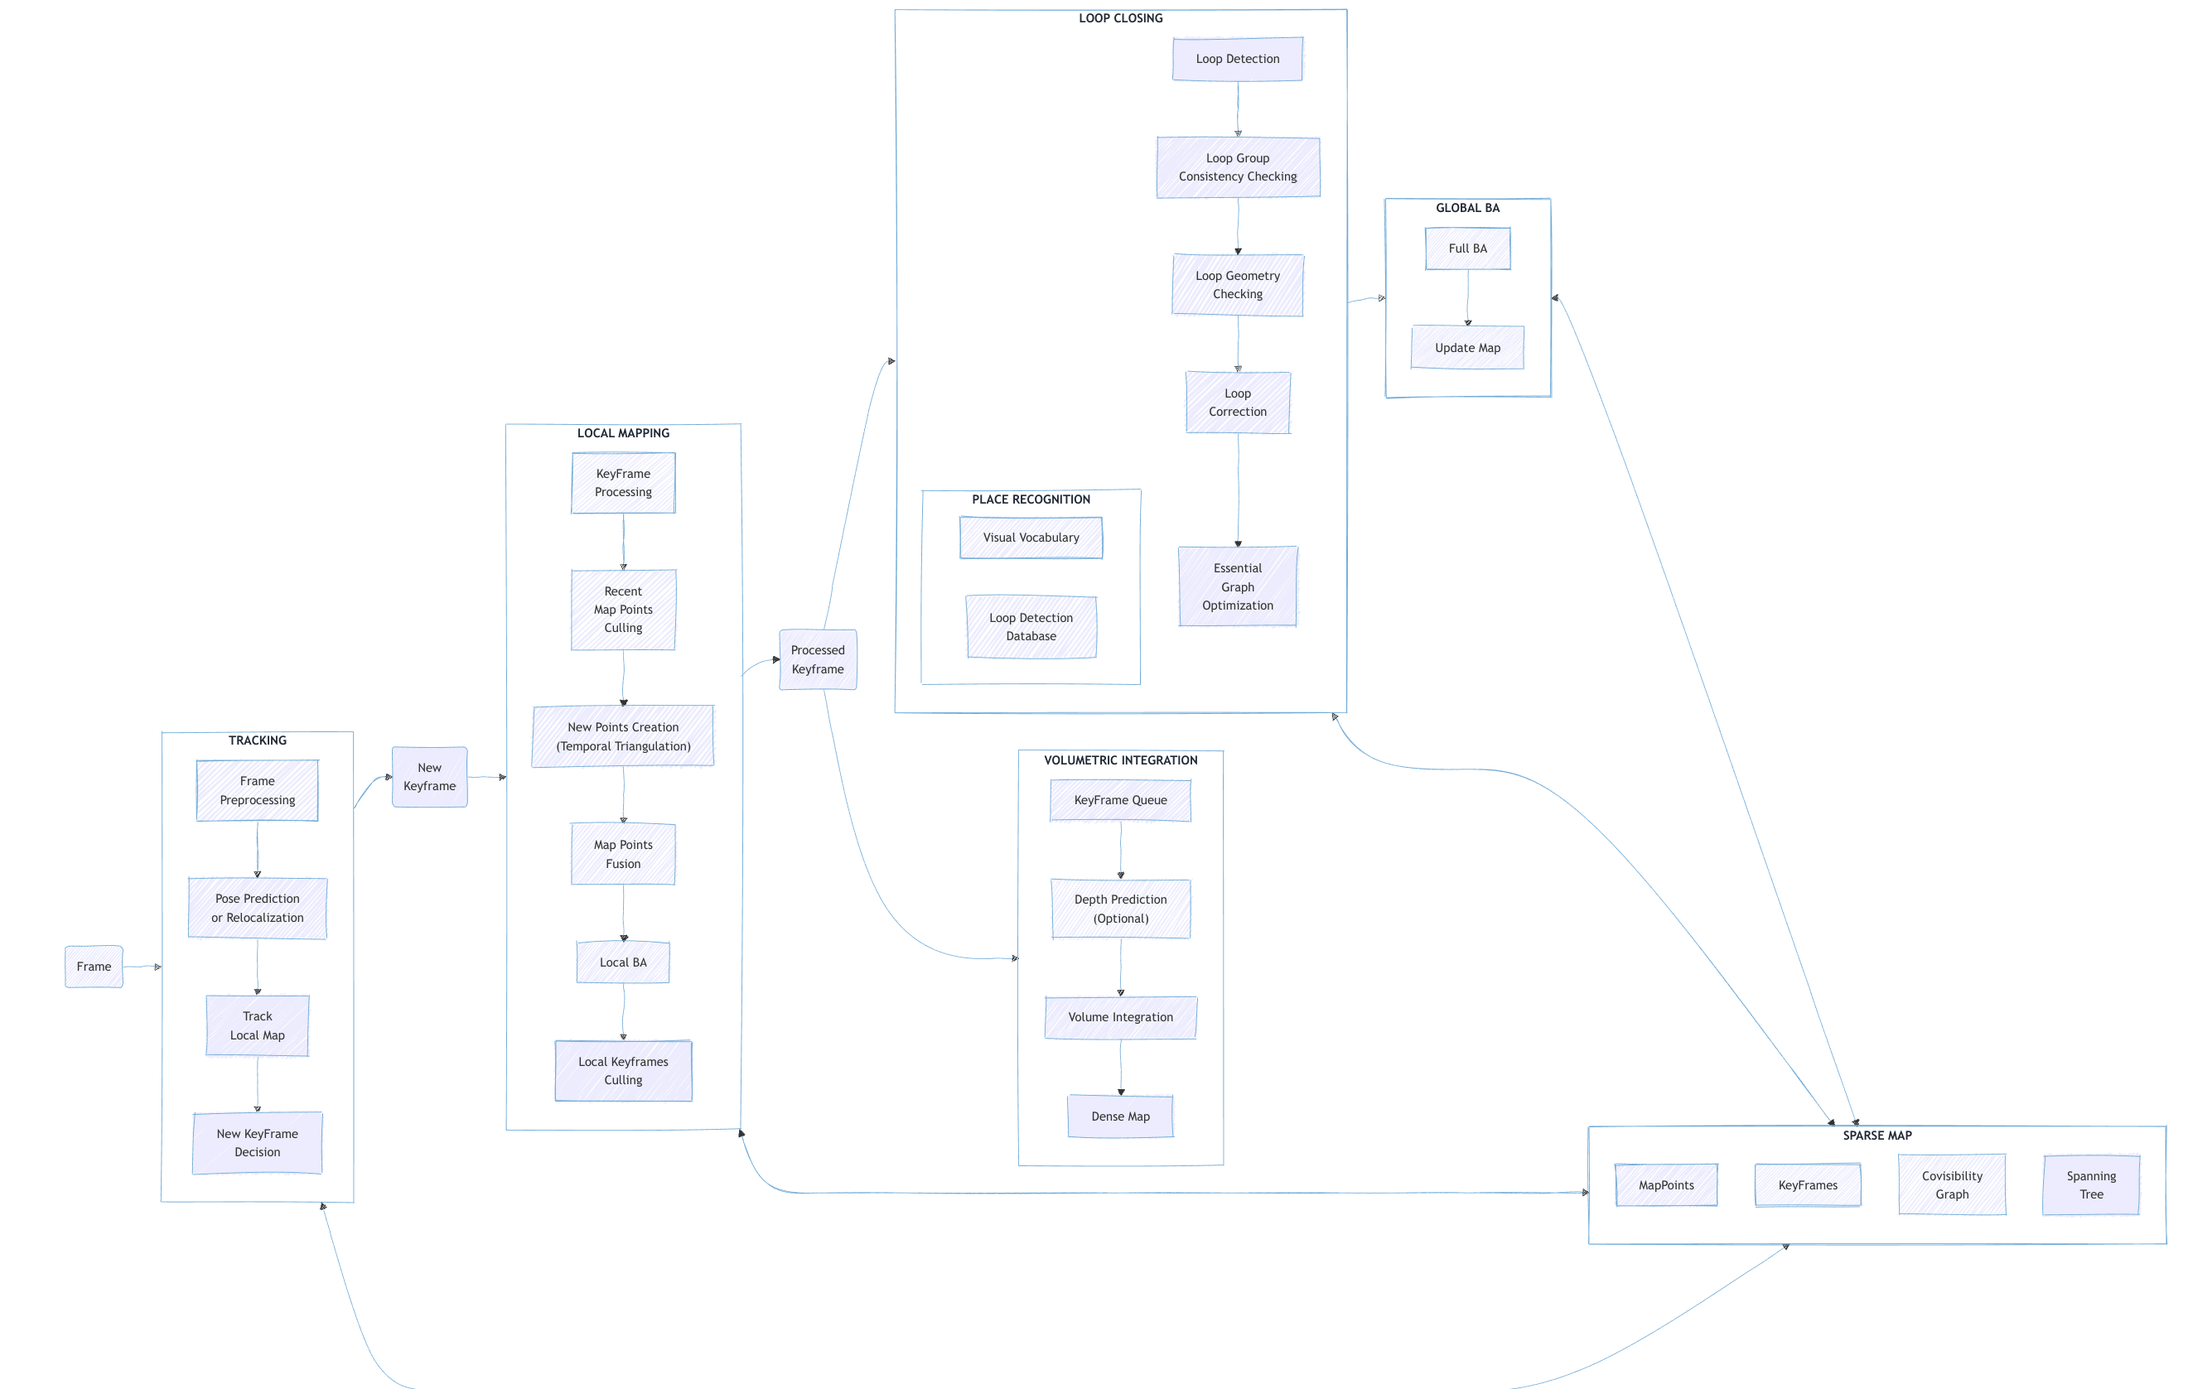
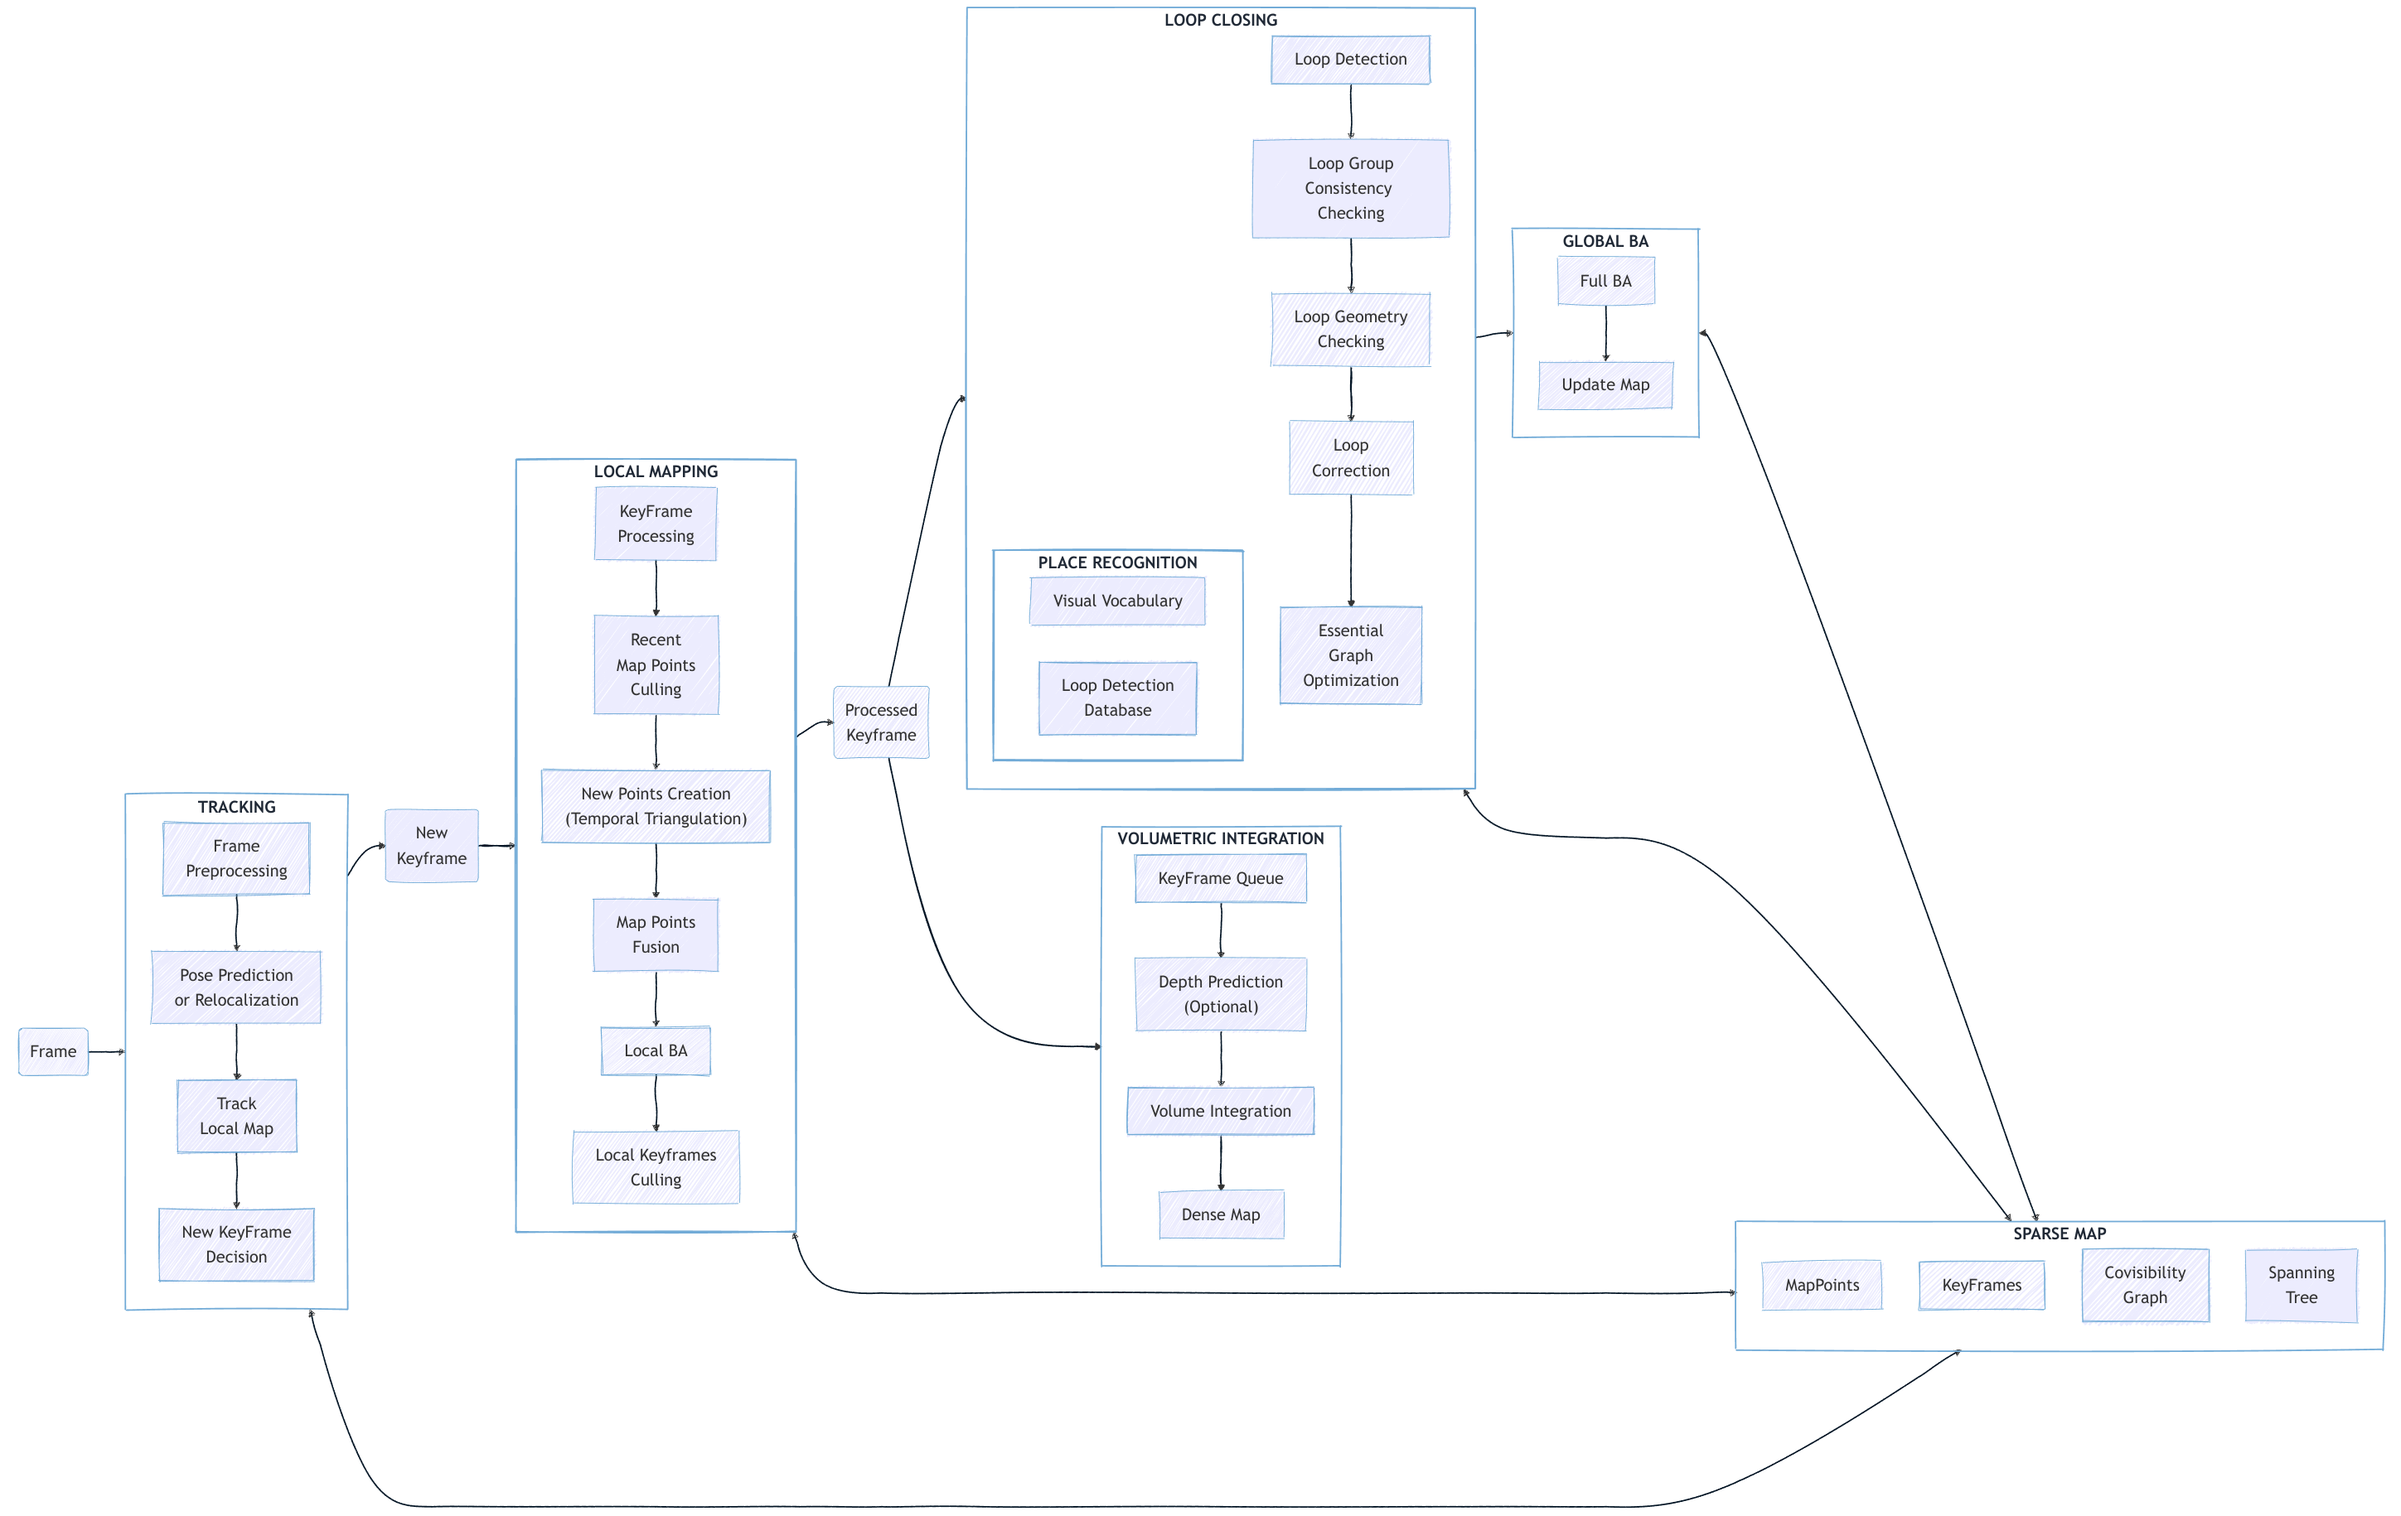
Small bug fixes/improvements

diff --git a/main_map_dense_reconstruction.py b/main_map_dense_reconstruction.py
@@ -91,7 +91,7 @@ if __name__ == "__main__":
                                                                                     # Since the depth inference time may be above 1 second, the volumetric integrator may be very slow.
                                                                                     # NOTE: The depth estimator estimates a metric depth (with an absolute scale). You can't combine it with a MONOCULAR SLAM output
                                                                                     # since the SLAM sparse map scale will not be consistent.
-    Parameters.kVolumetricIntegrationDepthEstimatorType = "DEPTH_CRESTEREO_PYTORCH"  # "DEPTH_PRO","DEPTH_ANYTHING_V2, "DEPTH_SGBM", "DEPTH_RAFT_STEREO", "DEPTH_CRESTEREO_PYTORCH"  (see depth_estimator_factory.py)    
+    Parameters.kVolumetricIntegrationDepthEstimatorType = "DEPTH_RAFT_STEREO"  # "DEPTH_PRO","DEPTH_ANYTHING_V2, "DEPTH_SGBM", "DEPTH_RAFT_STEREO", "DEPTH_CRESTEREO_PYTORCH"  (see depth_estimator_factory.py)    
     Parameters.kVolumetricIntegrationMinNumLBATimes = 0 # NOTE: This avoids the volumetric integrator integrates just keyframes with lba_count >= kVolumetricIntegrationMinNumLBATimes    
     if Parameters.kVolumetricIntegrationUseDepthEstimator:
         print(f'Using depth estimator: {Parameters.kVolumetricIntegrationDepthEstimatorType}')
@@ -124,7 +124,7 @@ if __name__ == "__main__":
         for kf in keyframes:
             
             print('-----------------------------------')
-            print(f'inserting keyframe: {kf.id}, img_id: {kf.img_id}. img shape: {kf.img.shape}, depth shape: {kf.depth_img.shape if kf.depth_img is not None else None} type: {kf.depth_img.dtype if kf.depth_img is not None else None}, lba_count: {kf.lba_count}')
+            print(f'inserting keyframe {i}/{num_map_keyframes}: {kf.id}, img_id: {kf.img_id}. img shape: {kf.img.shape}, depth shape: {kf.depth_img.shape if kf.depth_img is not None else None} type: {kf.depth_img.dtype if kf.depth_img is not None else None}, lba_count: {kf.lba_count}')
                         
             volumetric_integrator.add_keyframe(kf, kf.img, kf.img_right, kf.depth_img)
             volumetric_integrator.add_update_output_task()
@@ -136,9 +136,6 @@ if __name__ == "__main__":
                 if dense_map_output is not None:
                     viewer3D.draw_dense_geometry(dense_map_output.point_cloud, dense_map_output.mesh)
             i += 1
-            if i > 30:
-                break
-
     
     print(f'processing and visualizing dense map...')
     

diff --git a/slam/frame.py b/slam/frame.py
@@ -536,8 +536,14 @@ class Frame(FrameBase):
         frame_data_dict = {}
         frame_data_dict['is_keyframe'] = json_str['is_keyframe']
         frame_data_dict['median_depth'] = json_str['median_depth']
-        frame_data_dict['fov_center_c'] = NumpyJson.json_to_numpy(json.loads(json_str['fov_center_c']))
-        frame_data_dict['fov_center_w'] = NumpyJson.json_to_numpy(json.loads(json_str['fov_center_w'])) 
+        try:
+            frame_data_dict['fov_center_c'] = NumpyJson.json_to_numpy(json.loads(json_str['fov_center_c']))
+        except:
+            frame_data_dict['fov_center_c'] = None
+        try:
+            frame_data_dict['fov_center_w'] = NumpyJson.json_to_numpy(json.loads(json_str['fov_center_w'])) 
+        except:
+            frame_data_dict['fov_center_w'] = None
         
         frame_data_dict['kps'] = np.array(json.loads(json_str['kps'])) if json_str['kps'] is not None else None                
         frame_data_dict['kps_r'] = np.array(json.loads(json_str['kps_r'])) if json_str['kps_r'] is not None else None

diff --git a/loop_closing/loop_detecting_process.py b/loop_closing/loop_detecting_process.py
@@ -237,7 +237,7 @@ class LoopDetectingProcess:
         # main loop
         while is_running.value == 1:
             with q_in_condition:
-                while q_in.empty() and is_running.value == 1 and reset_requested.value == 0:
+                while q_in.empty() and is_running.value == 1 and reset_requested.value != 1:
                     print('LoopDetectingProcess: waiting for new task...')
                     q_in_condition.wait()
             if not q_in.empty():            
@@ -245,6 +245,7 @@ class LoopDetectingProcess:
                                     load_request_completed, load_request_condition, save_request_completed, save_request_condition, time_loop_detection)
             else: 
                 print('LoopDetectingProcess: q_in is empty...')
+                time.sleep(0.01)
             self.reset_if_requested(reset_mutex, reset_requested, self.loop_detector, q_in, q_in_condition, q_out, q_out_condition, q_out_reloc, q_out_reloc_condition)
 
         empty_queue(q_in) # empty the queue before exiting         

diff --git a/dense/volumetric_integrator_base.py b/dense/volumetric_integrator_base.py
@@ -424,7 +424,7 @@ class VolumetricIntegratorBase:
             try:
                 
                 with q_in_condition:
-                    while q_in.empty() and is_running.value == 1 and reset_requested.value == 0:
+                    while q_in.empty() and is_running.value == 1 and reset_requested.value != 1:
                         print('VolumetricIntegratorBase: waiting for new task...')
                         q_in_condition.wait()
                 if not q_in.empty():

diff --git a/README.md b/README.md
@@ -1,10 +1,10 @@
-# pySLAM v2.4.0
+# pySLAM v2.4.1
 
 Author: **[Luigi Freda](https://www.luigifreda.com)**
 
 <!-- TOC -->
 
-- [pySLAM v2.4.0](#pyslam-v240)
+- [pySLAM v2.4.1](#pyslam-v241)
   - [Install](#install)
     - [Main requirements](#main-requirements)
     - [Ubuntu](#ubuntu)
@@ -86,7 +86,7 @@ You can use the pySLAM framework as a baseline to experiment with VO techniques,
 </p>
 
 <p align="center" style="margin:0">
-<img src="./images/dense-reconstruction-composition.gif" alt="Dense Reconstruction - Stereo Depth Prediction - Kitti" height="400" border="0" /> 
+<img src="./images/dense-reconstruction-composition.gif" alt="Dense Reconstruction - Stereo Depth Prediction - Kitti" width="600" border="0" /> 
 </p>
 
 <!-- <img src="./images/dense-reconstruction-euroc-width-depth-prediction.png" alt="Dense Reconstruction - Stereo Depth Prediction - Euroc" height="160" border="0" /> <img src="./images/dense-reconstruction-euroc-with-depth-prediction-gsm.png" alt="Dense Reconstruction - Gaussian Splatting" height="160" border="0" /> <img src="./images/dense-reconstruction-tum-gsm.png" alt="Dense Reconstruction - Stereo Depth Prediction - Euroc" height="160" border="0" />  -->
@@ -237,21 +237,24 @@ If you want a mesh as output then set `kVolumetricIntegrationExtractMesh=True` i
 
 Use the script `main_map_dense_reconstruction.py` to reload a saved sparse map and to perform dense reconstruction by using its posed keyframes as input. You can select your preferred dense reconstruction method directly in the script. 
 
-To save the obtained dense and sparse maps, press the `Save` button on the GUI. 
+- To check what the volumetric integrator is doing, run in another shell `tail -f logs/volumetric_integrator.log` (from repository root folder).
+- To save the obtained dense and sparse maps, press the `Save` button on the GUI. 
 
 #### Reload and check your dense reconstruction 
 
 You can check the output pointcloud/mesh by using [CloudCompare](https://www.cloudcompare.org/). 
 
-In the case of a saved Gaussian splatting model, you can visualize it by getting into the folder `test/gaussian_splatting` and running:      
-`$ python test_gsm.py --load <gs_checkpoint_path>`
-The ` <gs_checkpoint_path>` is expected to have the following structure: 
-```bash
-├── gs_checkpoint_path
-    ├── pointcloud   # folder containing different subfolders, each one with a saved .ply econding the gaussian splatting model at a specific iteration/checkpoint
-    ├── last_camera.json
-    ├── config.yml
-```
+In the case of a saved Gaussian splatting model, you can visualize it by:
+1. Using the [superslat editor](https://playcanvas.com/supersplat/editor) (drag and drop the saved Gaussian splatting `.ply` pointcloud in the editor interface). 
+2. Getting into the folder `test/gaussian_splatting` and running:      
+    `$ python test_gsm.py --load <gs_checkpoint_path>`      
+    The ` <gs_checkpoint_path>` is expected to have the following structure:      
+    ```bash
+    ├── gs_checkpoint_path
+        ├── pointcloud   # folder containing different subfolders, each one with a saved .ply econding the gaussian splatting model at a specific iteration/checkpoint
+        ├── last_camera.json
+        ├── config.yml
+    ```
 
 #### Controlling the spatial distribution of keyframe FOV centers
 

diff --git a/docs/images/slam_workflow.md b/docs/images/slam_workflow.md
@@ -1,10 +1,10 @@
 graph LR
     %% Set default styles for all edges
-    linkStyle default stroke:#6EACDA,stroke-width:1px,font-size:10px;
+    linkStyle default stroke:#021526,stroke-width:2px,font-size:10px;
 
-    classDef module fill:none,stroke:#6EACDA,stroke-width:1px,font-weight:bold;
-    classDef component fill:#none,stroke:#6EACDA,stroke-width:1px;  
-    classDef data fill:#none,stroke:#6EACDA,stroke-width:1px;
+    classDef module fill:none,stroke:#6EACDA,stroke-width:2px,font-weight:bold, font-size:22px;
+    classDef component fill:#none,stroke:#6EACDA,stroke-width:1px, font-size:22px;  
+    classDef data fill:#none,stroke:#6EACDA,stroke-width:1px, font-size:22px;
 
     subgraph Tracking[TRACKING]
         FramePreprocessing[Frame<br>Preprocessing] --> PosePrediction
@@ -15,13 +15,13 @@ graph LR
     subgraph LocalMapping[LOCAL MAPPING]
         KeyFrameProcessing[KeyFrame<br>Processing] --> MapPointsCulling
         MapPointsCulling[Recent<br>Map Points<br>Culling] --> NewPointsCreation
-        NewPointsCreation["New Points Creation<br>(Temporal Triangulation)"] --> MapPointFusion
+        NewPointsCreation["New Points Creation<br>(Temporal&nbsp;Triangulation)"] --> MapPointFusion
         MapPointFusion[Map Points<br>Fusion] --> LocalBA
         LocalBA[Local BA] --> LocalKeyFramesCulling[Local Keyframes<br>Culling]
     end
     
     subgraph LoopClosing[LOOP CLOSING]
-        subgraph PlaceRecognition[PLACE RECOGNITION]
+        subgraph PlaceRecognition["PLACE&nbsp;RECOGNITION"]
             VisualVocabulary[Visual Vocabulary] 
             LoopDetectionDatabase[Loop Detection<br>Database]
         end
@@ -31,7 +31,7 @@ graph LR
         LoopCorrection[Loop<br>Correction]  --> EssentialGraphOptimization[Essential<br>Graph<br>Optimization]      
     end
 
-    subgraph VolumetricIntegration[VOLUMETRIC INTEGRATION]
+    subgraph VolumetricIntegration["VOLUMETRIC&nbsp;INTEGRATION"]
         KeyFrameQueue[KeyFrame Queue] --> DepthPrediction
         DepthPrediction["Depth Prediction<br>(Optional)"] --> VolumetricIntegrator[Volume Integration] 
         VolumetricIntegrator --> DenseMap[Dense Map]
